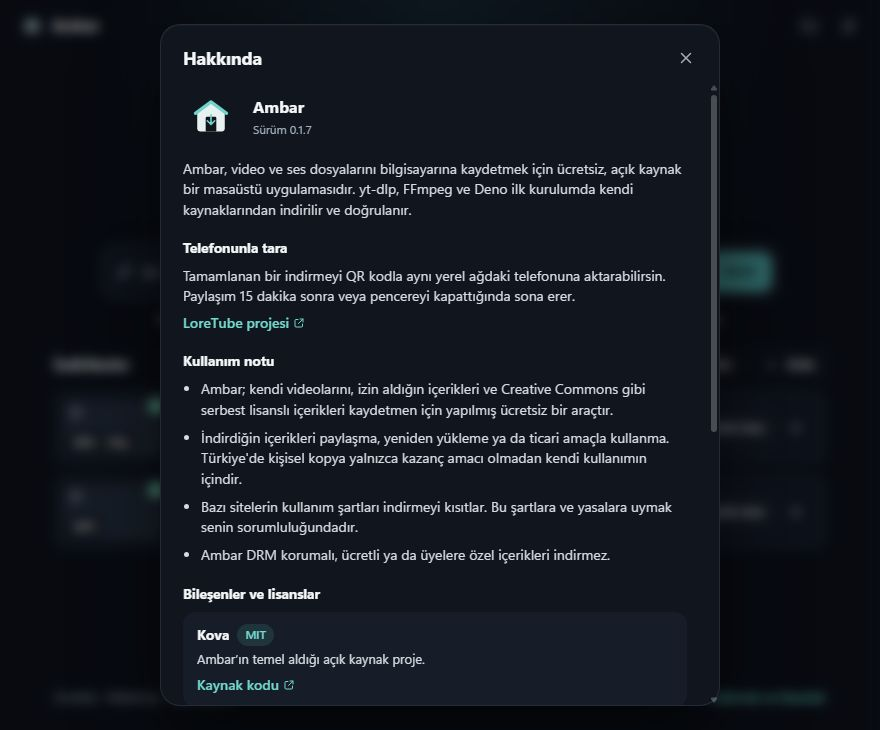
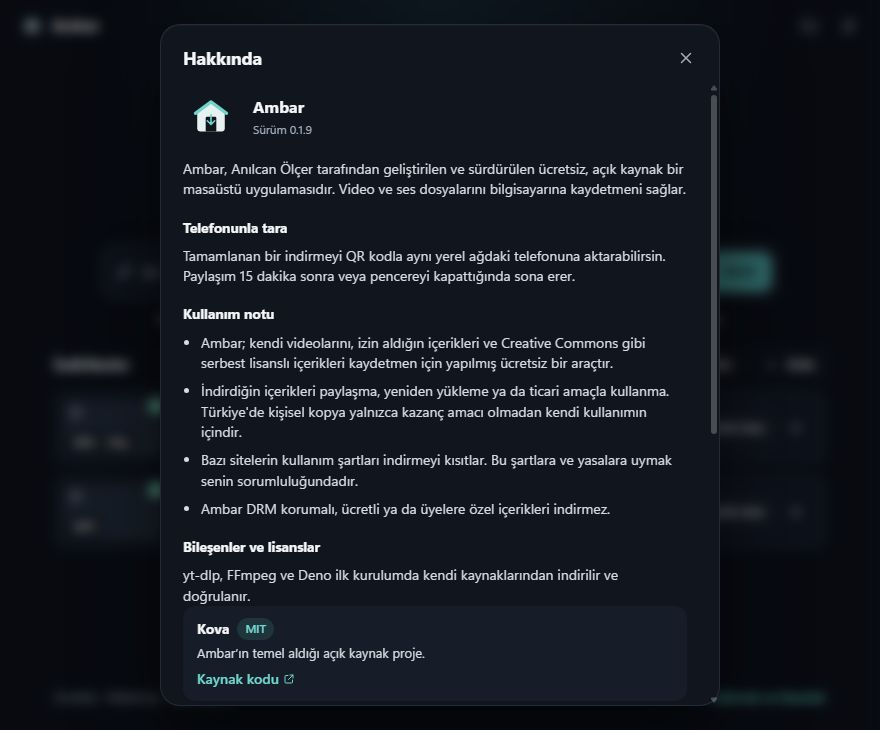
Hakkında ekranını, lisans metnini ve görselini güncelle

Changed region(s): [[0.1841, 0.211, 0.767, 0.9644]]

diff --git a/src/main.ts b/src/main.ts
@@ -1948,13 +1948,13 @@ function renderAbout() {
     "div",
     { class: "modal-body about" },
     h("div", { class: "about-head" }, h("img", { class: "about-logo", attrs: { src: "/logo.svg", alt: "" } }), h("div", {}, h("h3", {}, "Ambar"), h("small", { class: "muted" }, `Sürüm ${state.appVersion}`))),
-    h("p", {}, "Ambar, video ve ses dosyalarını bilgisayarına kaydetmek için ücretsiz, açık kaynak bir masaüstü uygulamasıdır. yt-dlp, FFmpeg ve Deno ilk kurulumda kendi kaynaklarından indirilir ve doğrulanır."),
+    h("p", {}, "Ambar, Anılcan Ölçer tarafından geliştirilen ve sürdürülen ücretsiz, açık kaynak bir masaüstü uygulamasıdır. Video ve ses dosyalarını bilgisayarına kaydetmeni sağlar."),
     h("h4", {}, "Telefonunla tara"),
     h("p", {}, "Tamamlanan bir indirmeyi QR kodla aynı yerel ağdaki telefonuna aktarabilirsin. Paylaşım 15 dakika sonra veya pencereyi kapattığında sona erer."),
-    h("div", { class: "component-links" }, linkButton("LoreTube projesi", "https://github.com/tuncaylore/loretube")),
     h("h4", {}, "Kullanım notu"),
     h("ul", { class: "notice-list" }, ...NOTICE_POINTS.map((p) => h("li", {}, p))),
     h("h4", {}, "Bileşenler ve lisanslar"),
+    h("p", {}, "yt-dlp, FFmpeg ve Deno ilk kurulumda kendi kaynaklarından indirilir ve doğrulanır."),
     component("Kova", "MIT", "Ambar’ın temel aldığı açık kaynak proje.", [["Kaynak kodu", "https://github.com/alpunlu12-commits/kova"]]),
     component("yt-dlp", "Unlicense · GPLv3+", "Medyayı bulan ve indiren motor. Kaynak kodu Unlicense, hazır derlemesi GPLv3+ bileşenler içerir.", [["GitHub", "https://github.com/yt-dlp/yt-dlp"]]),
     onWindows()

diff --git a/README.md b/README.md
@@ -98,4 +98,6 @@ npm run app:build
 
 ## 🤝 Kaynak ve lisans
 
-Ambar, Anılcan Ölçer'in markası ve geliştirmesiyle sürdürülür. Başlangıç kod tabanı [Kova](https://github.com/alpunlu12-commits/kova) projesidir; orijinal telif bildirimi ve MIT lisansı [LICENSE](LICENSE) dosyasında korunur. **Telefonunla tara** akışı [LoreTube](https://github.com/tuncaylore/loretube) projesinden esinlenmiştir. yt-dlp, FFmpeg, Deno, Tauri ve [qrcode](https://github.com/kennytm/qrcode-rust) kendi lisanslarıyla kullanılır.
+Ambar, Anılcan Ölçer tarafından geliştirilen ve sürdürülen MIT lisanslı bir projedir. Başlangıç kodu [Kova](https://github.com/alpunlu12-commits/kova) projesine dayanır. Kova’nın telif bildirimi ve MIT lisansı [LICENSE](LICENSE) dosyasında yer alır.
+
+yt-dlp, FFmpeg, Deno, Tauri ve [qrcode](https://github.com/kennytm/qrcode-rust) kendi lisansları kapsamında kullanılır.
